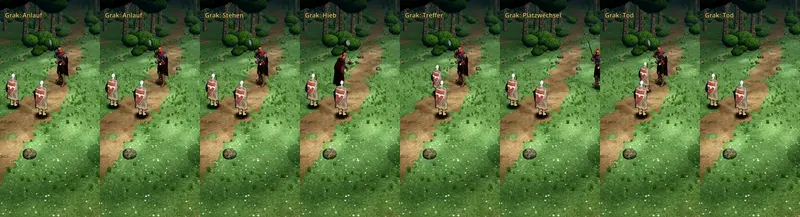
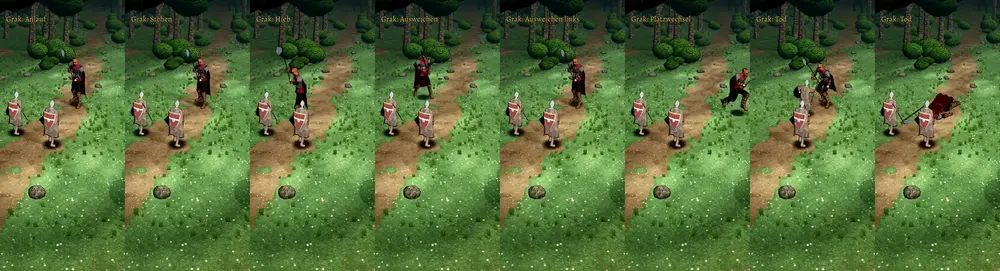
Jerry: Vorlage 348.12 Grak-Film Runde 2
Claude-Session: https://claude.ai/code/session_01Hmoj77So2Z7LDHr16MUtjY

diff --git a/docs/chefsache/ansehen/34812-grak-film.md b/docs/chefsache/ansehen/34812-grak-film.md
@@ -1,0 +1,14 @@
+# 348.12 · Grak bewegt sich im Kampfort, Runde 2 · Team Jerry · 29.10., 00:05
+
+![Grak im Kampfort, acht Momente: Anlauf, Stehen, Hieb, Ausweichen, Treffer, Platzwechsel, Tod](../bilder/34812-grak-film.webp)
+
+**Bitte ansehen:** Film per Telegram (29.10., 00:0x), 18 s, im Kampfort im Wald. Nachgebessert nach deinem Wort vom 28.10., 15:23:
+- **Gehen statt Schieben:** Grak geht und rennt mit den Schritten aus der gekauften Bewegungsbibliothek (UAL Pro: Gehen, Rennen, Rücklauf), im Tempo ihrer Schritte, die Füße gleiten nicht (gemessen: höchstens 2 % Abweichung).
+- **Hieb trifft:** er rennt bis vor die Heldin und schlägt aus der Reichweite der Axt; die Schneide liegt beim Aufschlag 12 cm in der Heldin, auf Schulterhöhe; danach läuft er rückwärts heim.
+- **Ausweichen:** ein Satz zur Seite (Seitenlauf aus UAL Pro), nach rechts und nach links, dann zurück auf seinen Platz.
+- **Tod als Zusammenbruch:** die Axt fällt ihm aus den Händen, er sinkt in die Knie, kippt vornüber und bleibt liegen, nichts wird ausgeblendet. Ursache des „Tod stehend“ im letzten Film: die gekaufte Sterbebewegung kam nicht ans Gerüst (Blender 5), behoben.
+- Zeiten im Film: 0,3 s Anlauf, 2,5 s Stehen, 4,5 s Hieb, 7,6 s Ausweichen rechts, 9,1 s links, 10,6 s Treffer, 12,3 s Platzwechsel, 14,5 s Tod.
+
+**Sag:** „348.12 passt“ oder was nicht stimmt.
+
+Bestand geprüft: UAL Pro (`LISTE-BESTAND.md`, gekauft) Walk_Loop, Jog_Fwd_Loop, Jog_Bwd_Loop, Jog_Left/Right_Loop, Hit_Chest, Death02 genommen; der Weg am Boden aus `UAL1_RM.glb`. Axt gegen Körper gemessen in jeder Bewegung: frei. Der Befund des fremden Prüfers kommt nach dem Senden als Text (Archiv 396).
